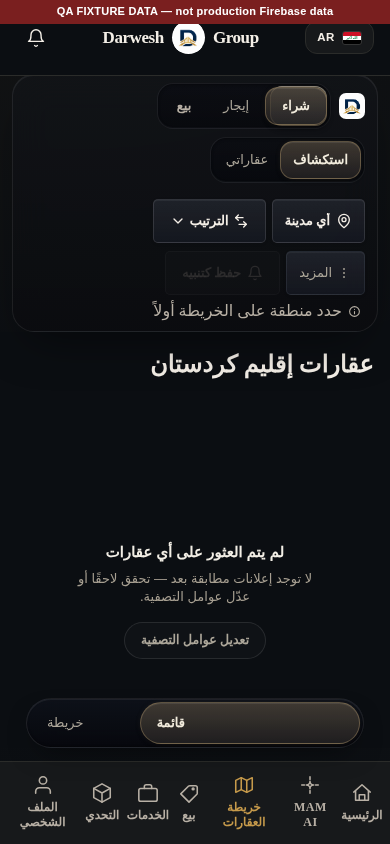
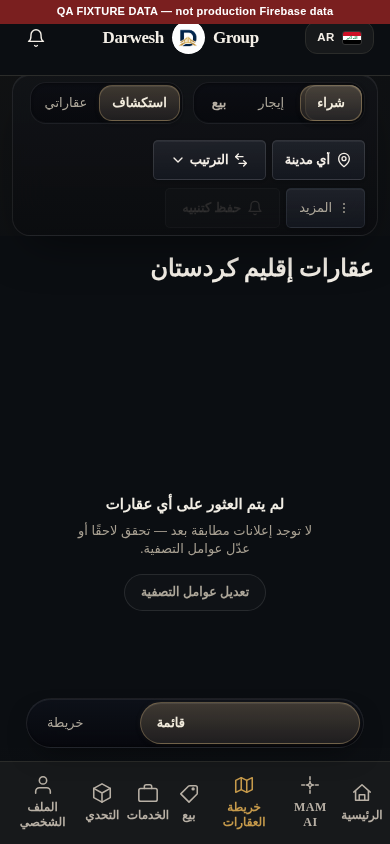
Compact the property map top toolbar
Shrink the floating glass toolbar from ~72px to ~53px total height:
control min-heights drop 44px->40px (segmented-control buttons
38px->36px), pill/segment border-radius 15px->13px, outer bar radius
26px->20px (18px on mobile), and vertical padding tightens to match.
Also removes the decorative Darwesh logo mark and the "Select an area
on the map first" helper line from inside the toolbar so it begins
directly with the interactive controls, with no leftover gap.

Visual/layout only -- no JS, filter, Firebase, or modal logic touched;
the helper-message DOM lookup was already null-safe.

Claude-Session: https://claude.ai/code/session_01FeL2Hq8Dx18SPrnSjRfGeJ

diff --git a/map.html b/map.html
@@ -147,8 +147,8 @@ violation reporting. -->
       background-color: rgba(20,24,34,.55);
       border-color: rgba(180,195,215,.11);
       box-shadow: inset 0 1px 0 rgba(255,255,255,.06), 0 1px 3px rgba(0,0,0,.15);
-      border-radius: 15px;
-      min-height: 44px;
+      border-radius: 13px;
+      min-height: 40px;
       transition: background-color 180ms cubic-bezier(.2,.8,.2,1), border-color 180ms cubic-bezier(.2,.8,.2,1), color 180ms cubic-bezier(.2,.8,.2,1), transform 180ms cubic-bezier(.2,.8,.2,1), box-shadow 180ms cubic-bezier(.2,.8,.2,1);
     }
     .filter-dropdown-btn:hover { background-color: rgba(28,33,48,.66); border-color: rgba(180,195,215,.2); transform: translateY(-1px); }
@@ -178,8 +178,8 @@ violation reporting. -->
       background-color: rgba(20,24,34,.55);
       border-color: rgba(180,195,215,.11);
       box-shadow: inset 0 1px 0 rgba(255,255,255,.06), 0 1px 3px rgba(0,0,0,.15);
-      border-radius: 15px;
-      min-height: 44px;
+      border-radius: 13px;
+      min-height: 40px;
       transition: background-color 180ms cubic-bezier(.2,.8,.2,1), border-color 180ms cubic-bezier(.2,.8,.2,1), color 180ms cubic-bezier(.2,.8,.2,1), transform 180ms cubic-bezier(.2,.8,.2,1), box-shadow 180ms cubic-bezier(.2,.8,.2,1);
     }
     .select-area-btn:hover { background-color: rgba(28,33,48,.66); border-color: rgba(180,195,215,.2); transform: translateY(-1px); }
@@ -227,21 +227,18 @@ violation reporting. -->
     #filterBarWrap {
       left: 24px; right: 24px; width: auto; max-width: 1560px; margin-inline: auto;
       top: calc(4rem + 14px);
-      border-radius: 26px;
+      border-radius: 20px;
       background: linear-gradient(180deg, rgba(18,20,24,.82), rgba(11,12,15,.88));
       backdrop-filter: blur(18px) saturate(140%); -webkit-backdrop-filter: blur(18px) saturate(140%);
       border: 1px solid rgba(255,255,255,.08);
       box-shadow: 0 20px 48px -18px rgba(0,0,0,.55), inset 0 1px 0 rgba(255,255,255,.06);
     }
-    #filterBarWrap > div:first-child { gap: 8px; padding-block: 13px; min-height: auto; }
+    #filterBarWrap > div:first-child { gap: 10px; padding-block: 7px; min-height: auto; }
     /* Typography: 13-14px labels throughout the bar, selected = 600,
        unselected = 500 -- overrides font-label-caps's flat 12px/600 for
        everything living inside this toolbar specifically. */
     #filterBarWrap .font-label-caps { font-size: 13px; letter-spacing: 0.01em; }
-    .toolbar-logo-mark { flex: none; display: flex; align-items: center; gap: 7px; padding-inline-end: 4px; }
-    .toolbar-logo-mark img { width: 26px; height: 26px; object-fit: contain; border-radius: 7px; flex: none; }
-    .toolbar-logo-mark span { font-family: 'Inter', sans-serif; font-size: 11px; font-weight: 800; letter-spacing: .02em; color: #D8D2C4; white-space: nowrap; }
-    .toolbar-divider { width: 1px; align-self: stretch; margin-block: 10px; background: rgba(255,255,255,.09); flex: none; }
+    .toolbar-divider { width: 1px; align-self: stretch; margin-block: 8px; background: rgba(255,255,255,.09); flex: none; }
     .toolbar-group { display: flex; align-items: center; gap: 6px; flex: none; }
     .toolbar-row-break { display: none; }
     /* Mobile "More" sheet: Select Area + Save Search collapse behind this
@@ -259,12 +256,10 @@ violation reporting. -->
        Save-as-Alert onto row 2. Every control that exists on desktop
        still exists here -- nothing is hidden or dropped, only reflowed. */
     @media (max-width: 767px) {
-      #filterBarWrap { left: 12px; right: 12px; top: calc(4rem + 10px); border-radius: 22px; }
-      #filterBarWrap > div:first-child { flex-wrap: wrap; overflow-x: visible; row-gap: 8px; padding-block: 8px; }
+      #filterBarWrap { left: 12px; right: 12px; top: calc(4rem + 10px); border-radius: 18px; }
+      #filterBarWrap > div:first-child { flex-wrap: wrap; overflow-x: visible; row-gap: 8px; padding-block: 7px; }
       .toolbar-group { flex-wrap: wrap; row-gap: 8px; max-width: 100%; }
       .toolbar-divider { display: none; }
-      .toolbar-logo-mark span { display: none; }
-      .toolbar-logo-mark { padding-inline-end: 0; }
       .toolbar-row-break { display: block; flex-basis: 100%; height: 0; }
       /* Collapse Select Area + Save Search behind a "More" pill; Save as
          Alert (outside #toolbarMoreActions in the markup) stays visible at
@@ -282,15 +277,15 @@ violation reporting. -->
        sliding pill behind Buy/Rent/Sell) gets the same soft-glass
        treatment below. */
     #typeSeg, #mapModeSeg {
-      padding: 3px;
+      padding: 2px;
       background: linear-gradient(180deg, rgba(8,10,18,.5), rgba(4,5,10,.6));
       border: 1px solid rgba(255,255,255,.08);
       border-radius: 16px;
       box-shadow: inset 0 1px 3px rgba(0,0,0,.4), inset 0 -1px 0 rgba(255,255,255,.03);
       flex: none;
     }
-    #typeSeg .type-toggle, #mapModeSeg .map-mode-toggle { min-height: 38px; }
-    #mapModeSeg .map-mode-toggle { padding-block: 5px; padding-inline: 12px; transition: color 170ms ease, transform 170ms ease; }
+    #typeSeg .type-toggle, #mapModeSeg .map-mode-toggle { min-height: 36px; }
+    #mapModeSeg .map-mode-toggle { padding-block: 4px; padding-inline: 12px; transition: color 170ms ease, transform 170ms ease; }
     #typeSeg .type-toggle, #typeSeg a, #mapModeSeg .map-mode-toggle { border-radius: 13px; }
     /* Selected segment: SOFT SMOKED CHAMPAGNE GLASS -- a dark translucent
        base with a muted champagne tint layered on top (not a solid gold
@@ -323,8 +318,8 @@ violation reporting. -->
       color: #ADA79A;
       background-image: linear-gradient(180deg, rgba(255,255,255,.06), rgba(255,255,255,.015));
       background-color: rgba(22,26,38,.5);
-      border: 1px solid rgba(180,195,215,.1); border-radius: 15px;
-      min-height: 44px; font-weight: 500;
+      border: 1px solid rgba(180,195,215,.1); border-radius: 13px;
+      min-height: 40px; font-weight: 500;
       box-shadow: inset 0 1px 0 rgba(255,255,255,.05), 0 1px 3px rgba(0,0,0,.14);
       transition: background-color 180ms cubic-bezier(.2,.8,.2,1), color 180ms cubic-bezier(.2,.8,.2,1), transform 180ms cubic-bezier(.2,.8,.2,1), border-color 180ms cubic-bezier(.2,.8,.2,1), box-shadow 180ms cubic-bezier(.2,.8,.2,1);
     }
@@ -340,8 +335,8 @@ violation reporting. -->
       background-image: linear-gradient(180deg, rgba(224,190,130,.27), rgba(224,190,130,.09));
       background-color: rgba(22,24,32,.72);
       border: 1px solid rgba(224,190,130,.4);
-      border-radius: 15px;
-      min-height: 44px; font-weight: 600;
+      border-radius: 13px;
+      min-height: 40px; font-weight: 600;
       box-shadow: 0 3px 11px -5px rgba(0,0,0,.45), inset 0 1px 0 rgba(255,255,255,.1), 0 0 14px -6px rgba(224,190,130,.32);
       transition: background-color 180ms cubic-bezier(.2,.8,.2,1), border-color 180ms cubic-bezier(.2,.8,.2,1), transform 180ms cubic-bezier(.2,.8,.2,1), box-shadow 180ms cubic-bezier(.2,.8,.2,1);
     }
@@ -977,15 +972,6 @@ violation reporting. -->
      control was added, removed, or rewired. -->
 <div id="filterBarWrap" class="fixed z-40">
 <div class="max-w-container-max mx-auto px-3 md:px-4 flex items-center gap-2 overflow-x-auto hide-scrollbar">
-<!-- Decorative brand mark -- purely visual, reuses the same logo asset
-     the shared site header already renders; not a second interactive
-     nav element (the real navigation/account controls stay in
-     #siteHeader above, unchanged). -->
-<a href="index.html" class="toolbar-logo-mark" aria-hidden="true" tabindex="-1">
-<img src="images/brand/darwesh-approved-new-logo.png" alt="" decoding="async"/>
-<span>DARWESH</span>
-</a>
-<div class="toolbar-divider" aria-hidden="true"></div>
 <!-- Search Mode segment -->
 <div id="typeSeg" class="flex items-center rounded-full p-1 flex-none" role="group" aria-label="Listing type" data-i18n-aria="map.toolbarGroupType">
 <div id="typeSegIndicator" aria-hidden="true"></div>
@@ -1095,16 +1081,6 @@ violation reporting. -->
 </div>
 <span id="resultCount" class="flex-none ml-auto font-data-mono text-data-mono text-on-surface-variant hidden md:block"></span>
 </div>
-<!-- Small, always-in-flow helper line (NOT inside the horizontally
-     scrolling toolbar above, so it can never scroll out of view) --
-     shown only while Save as Alert is disabled, i.e. neither a drawn
-     circle nor a typed city is set yet. Kept in sync from the same
-     currentAlertArea() check as the button itself -- see
-     updateSaveAlertButton(). -->
-<p id="saveAlertHelperMsg" class="max-w-container-max mx-auto px-margin-mobile md:px-margin-desktop pb-2 -mt-1 flex items-center gap-1.5 font-body-md text-body-md text-on-surface-variant text-[12px]">
-<svg viewBox="0 0 24 24" width="13" height="13" fill="none" stroke="currentColor" stroke-width="2" stroke-linecap="round" stroke-linejoin="round" aria-hidden="true" class="flex-none"><circle cx="12" cy="12" r="9"/><path d="M12 16v-4M12 8h.01"/></svg>
-<span data-i18n="alerts.selectAreaFirst">Select an area on the map first</span>
-</p>
 </div>
 
 <!-- Main split view -->
